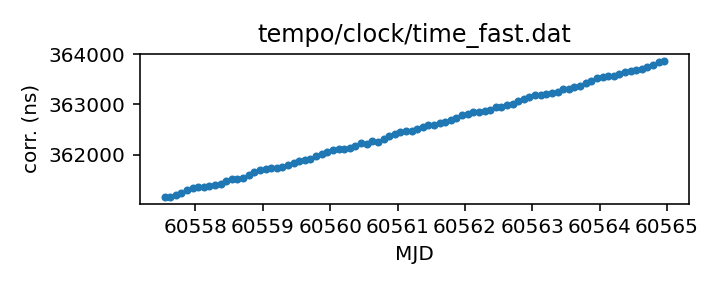
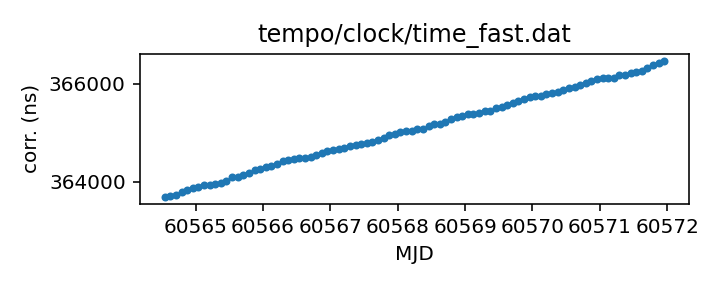
Routine gh-pages update from Github action Fri Sep 20 20:33:59 UTC 2024

diff --git a/status.md b/status.md
@@ -13,18 +13,18 @@ name of each clock file links to a page with more details.
 
 | Name | File | Corrections start | Corrections end | Last check date | Last check result 
 |:--- |:--- | --- | --- | --- |:--- 
-| [GPS to UTC](T2runtime/clock/gps2utc.clk.html) | `T2runtime/clock/gps2utc.clk` | 1993-01-01 MJD 48988.0 | 2024-04-29 MJD 60429.0 | 2024-09-19 | Unchanged 
-| [GPS to UTC (Combined Clock)](T2runtime/clock/gps2utc_cc.clk.html) | `T2runtime/clock/gps2utc_cc.clk` | 1993-01-01 MJD 48988.0 | 2024-04-29 MJD 60429.0 | 2024-09-19 | Unchanged 
-| [GPS to UTC (Corrected)](T2runtime/clock/gps2utc_c0p.clk.html) | `T2runtime/clock/gps2utc_c0p.clk` | 2010-12-29 MJD 55559.0 | 2024-04-29 MJD 60429.0 | 2024-09-19 | Unchanged 
-| [GBT](tempo/clock/time_gbt.dat.html) | `tempo/clock/time_gbt.dat` | 2000-12-31 MJD 51909.5 | 2024-05-18 MJD 60448.5 | 2024-09-19 | **Validation failed** 
+| [GPS to UTC](T2runtime/clock/gps2utc.clk.html) | `T2runtime/clock/gps2utc.clk` | 1993-01-01 MJD 48988.0 | 2024-04-29 MJD 60429.0 | 2024-09-20 | Unchanged 
+| [GPS to UTC (Combined Clock)](T2runtime/clock/gps2utc_cc.clk.html) | `T2runtime/clock/gps2utc_cc.clk` | 1993-01-01 MJD 48988.0 | 2024-04-29 MJD 60429.0 | 2024-09-20 | Unchanged 
+| [GPS to UTC (Corrected)](T2runtime/clock/gps2utc_c0p.clk.html) | `T2runtime/clock/gps2utc_c0p.clk` | 2010-12-29 MJD 55559.0 | 2024-04-29 MJD 60429.0 | 2024-09-20 | Unchanged 
+| [GBT](tempo/clock/time_gbt.dat.html) | `tempo/clock/time_gbt.dat` | 2000-12-31 MJD 51909.5 | 2024-05-18 MJD 60448.5 | 2024-09-20 | **Validation failed** 
 | [GBT (TEMPO2 converted from TEMPO)](T2runtime/clock/gbt2gps.clk.html) | `T2runtime/clock/gbt2gps.clk` | 2000-12-31 MJD 51909.5 | 2024-05-18 MJD 60448.5 | 2024-05-19 | Updated 
-| [Jodrell Bank](T2runtime/clock/jb2gps.clk.html) | `T2runtime/clock/jb2gps.clk` | 2006-10-13 MJD 54021.4 | 2023-12-04 MJD 60282.0 | 2024-09-13 | Unchanged 
-| [Jodrell Bank Roach](T2runtime/clock/jbroach2jb.clk.html) | `T2runtime/clock/jbroach2jb.clk` | 2006-10-13 MJD 54021.4 | 2018-03-20 MJD 58197.6 | 2024-09-13 | Unchanged 
-| [Jodrell Bank DFB](T2runtime/clock/jbdfb2jb.clk.html) | `T2runtime/clock/jbdfb2jb.clk` | 2006-10-13 MJD 54021.4 | 2017-05-11 MJD 57884.0 | 2024-09-13 | Unchanged 
-| [Meerkat (observatory)](T2runtime/clock/mk2utc_observatory.clk.html) | `T2runtime/clock/mk2utc_observatory.clk` | 2019-01-01 MJD 58484.0 | 2024-04-24 MJD 60425.0 | 2024-09-13 | **Failed to download** 
-| [Leap seconds](tempo/clock/leap.sec.html) | `tempo/clock/leap.sec` | 1972-07-01 MJD 41499.0 | 2017-01-01 MJD 57754.0 | 2024-09-19 | Unchanged 
-| [UT1 table](tempo/clock/ut1.dat.html) | `tempo/clock/ut1.dat` | 1973-01-02 MJD 41684.0 | 2025-09-27 MJD 60945.0 | 2024-09-19 | Updated 
-| [UT1 table](T2runtime/clock/ut1.dat.html) | `T2runtime/clock/ut1.dat` | 1973-01-02 MJD 41684.0 | 2025-09-27 MJD 60945.0 | 2024-09-19 | Updated 
+| [Jodrell Bank](T2runtime/clock/jb2gps.clk.html) | `T2runtime/clock/jb2gps.clk` | 2006-10-13 MJD 54021.4 | 2023-12-04 MJD 60282.0 | 2024-09-20 | Unchanged 
+| [Jodrell Bank Roach](T2runtime/clock/jbroach2jb.clk.html) | `T2runtime/clock/jbroach2jb.clk` | 2006-10-13 MJD 54021.4 | 2018-03-20 MJD 58197.6 | 2024-09-20 | Unchanged 
+| [Jodrell Bank DFB](T2runtime/clock/jbdfb2jb.clk.html) | `T2runtime/clock/jbdfb2jb.clk` | 2006-10-13 MJD 54021.4 | 2017-05-11 MJD 57884.0 | 2024-09-20 | Unchanged 
+| [Meerkat (observatory)](T2runtime/clock/mk2utc_observatory.clk.html) | `T2runtime/clock/mk2utc_observatory.clk` | 2019-01-01 MJD 58484.0 | 2024-04-24 MJD 60425.0 | 2024-09-20 | **Validation failed** 
+| [Leap seconds](tempo/clock/leap.sec.html) | `tempo/clock/leap.sec` | 1972-07-01 MJD 41499.0 | 2017-01-01 MJD 57754.0 | 2024-09-20 | Unchanged 
+| [UT1 table](tempo/clock/ut1.dat.html) | `tempo/clock/ut1.dat` | 1973-01-02 MJD 41684.0 | 2025-09-27 MJD 60945.0 | 2024-09-20 | Unchanged 
+| [UT1 table](T2runtime/clock/ut1.dat.html) | `T2runtime/clock/ut1.dat` | 1973-01-02 MJD 41684.0 | 2025-09-27 MJD 60945.0 | 2024-09-20 | Unchanged 
 
 
 
@@ -67,26 +67,26 @@ name of each clock file links to a page with more details.
 
 | Name | File | Corrections start | Corrections end | Last check date | Last check result 
 |:--- |:--- | --- | --- | --- |:--- 
-| [GPS to UTC (TEMPO2)](T2runtime/clock/gps2utc_tempo2.clk.html) | `T2runtime/clock/gps2utc_tempo2.clk` | 1996-03-27 MJD 50169.0 | 2022-10-27 MJD 59879.0 | 2024-09-13 | **Failed to download** 
-| [GBT (TEMPO2)](T2runtime/clock/gbt2gps_tempo2.clk.html) | `T2runtime/clock/gbt2gps_tempo2.clk` | 2000-12-31 MJD 51909.5 | 2020-02-25 MJD 58904.5 | 2024-09-13 | Unchanged 
-| [Jodrell Bank (TEMPO)](tempo/clock/time_jb.dat.html) | `tempo/clock/time_jb.dat` | 2006-10-13 MJD 54021.4 | 2019-05-13 MJD 58616.2 | 2024-09-13 | Unchanged 
-| [VLA](tempo/clock/time_vla.dat.html) | `tempo/clock/time_vla.dat` | 1990-10-27 MJD 48191.2 | 2021-03-07 MJD 59280.5 | 2024-09-13 | Unchanged 
-| [VLA (TEMPO2)](T2runtime/clock/vla2gps.clk.html) | `T2runtime/clock/vla2gps.clk` | 2015-02-01 MJD 57054.6 | 2021-03-07 MJD 59280.5 | 2024-09-13 | Unchanged 
-| [VLA to NIST](T2runtime/clock/vla2nist.clk.html) | `T2runtime/clock/vla2nist.clk` | 1990-10-27 MJD 48191.2 | 1993-11-13 MJD 49304.0 | 2024-09-13 | Unchanged 
-| [FAST](tempo/clock/time_fast.dat.html) | `tempo/clock/time_fast.dat` | 2017-07-27 MJD 57961.0 | 2024-09-11 MJD 60565.0 | 2024-09-13 | Updated 
-| [WSRT](T2runtime/clock/wsrt2gps.clk.html) | `T2runtime/clock/wsrt2gps.clk` | 1999-01-01 MJD 51179.5 | 2015-06-29 MJD 57202.1 | 2024-09-13 | Unchanged 
-| [WSRT (TEMPO)](tempo/clock/time_wsrt.dat.html) | `tempo/clock/time_wsrt.dat` | 1987-07-24 MJD 47000.0 | 2007-12-24 MJD 54458.0 | 2024-09-13 | **Validation failed** 
-| [Parkes](T2runtime/clock/pks2gps.clk.html) | `T2runtime/clock/pks2gps.clk` | 1858-11-17 MJD 0.0 | 2024-08-31 MJD 60553.1 | 2024-09-13 | Updated 
-| [Parkes (TEMPO)](tempo/clock/time_pks.dat.html) | `tempo/clock/time_pks.dat` | 1979-05-07 MJD 44000.0 | 2011-07-03 MJD 55745.8 | 2024-09-13 | **Validation failed** 
-| [SRT](T2runtime/clock/srt2gps.clk.html) | `T2runtime/clock/srt2gps.clk` | 2013-03-20 MJD 56371.0 | 2019-12-11 MJD 58828.0 | 2024-09-13 | Unchanged 
-| [Effelsberg](T2runtime/clock/eff2gps.clk.html) | `T2runtime/clock/eff2gps.clk` | 1993-11-29 MJD 49320.0 | 2015-06-22 MJD 57195.5 | 2024-09-13 | Unchanged 
-| [Effelsberg Asterix/PSRix](T2runtime/clock/effix2gps.clk.html) | `T2runtime/clock/effix2gps.clk` | 2011-01-01 MJD 55562.5 | 2021-03-21 MJD 59294.5 | 2024-09-13 | Unchanged 
-| [LEAP](T2runtime/clock/leap2effix.clk.html) | `T2runtime/clock/leap2effix.clk` | 2012-10-29 MJD 56230.0 | 2014-03-04 MJD 56720.0 | 2024-09-13 | Unchanged 
-| [NUPPI](tempo/clock/time_nuppi.dat.html) | `tempo/clock/time_nuppi.dat` | 2005-03-07 MJD 53436.0 | 2015-11-08 MJD 57334.6 | 2024-09-13 | Unchanged 
-| [Meerkat (TEMPO2)](T2runtime/clock/mk2utc.clk.html) | `T2runtime/clock/mk2utc.clk` | 2019-01-01 MJD 58484.0 | 2023-10-18 MJD 60235.9 | 2024-09-13 | Unchanged 
-| [MOST](T2runtime/clock/mo2gps.clk.html) | `T2runtime/clock/mo2gps.clk` | 2003-12-27 MJD 53000.0 | 2018-09-06 MJD 58367.0 | 2024-09-13 | Unchanged 
-| [Nancay to obspm](T2runtime/clock/ncyobs2obspm.clk.html) | `T2runtime/clock/ncyobs2obspm.clk` | 1988-05-18 MJD 47299.6 | 2023-10-27 MJD 60244.0 | 2024-09-13 | Unchanged 
-| [obspm](T2runtime/clock/obspm2gps.clk.html) | `T2runtime/clock/obspm2gps.clk` | 2003-12-01 MJD 52974.0 | 2023-10-27 MJD 60244.0 | 2024-09-13 | Unchanged 
+| [GPS to UTC (TEMPO2)](T2runtime/clock/gps2utc_tempo2.clk.html) | `T2runtime/clock/gps2utc_tempo2.clk` | 1996-03-27 MJD 50169.0 | 2022-10-27 MJD 59879.0 | 2024-09-20 | **Failed to download** 
+| [GBT (TEMPO2)](T2runtime/clock/gbt2gps_tempo2.clk.html) | `T2runtime/clock/gbt2gps_tempo2.clk` | 2000-12-31 MJD 51909.5 | 2020-02-25 MJD 58904.5 | 2024-09-20 | Unchanged 
+| [Jodrell Bank (TEMPO)](tempo/clock/time_jb.dat.html) | `tempo/clock/time_jb.dat` | 2006-10-13 MJD 54021.4 | 2019-05-13 MJD 58616.2 | 2024-09-20 | Unchanged 
+| [VLA](tempo/clock/time_vla.dat.html) | `tempo/clock/time_vla.dat` | 1990-10-27 MJD 48191.2 | 2021-03-07 MJD 59280.5 | 2024-09-20 | Unchanged 
+| [VLA (TEMPO2)](T2runtime/clock/vla2gps.clk.html) | `T2runtime/clock/vla2gps.clk` | 2015-02-01 MJD 57054.6 | 2021-03-07 MJD 59280.5 | 2024-09-20 | Unchanged 
+| [VLA to NIST](T2runtime/clock/vla2nist.clk.html) | `T2runtime/clock/vla2nist.clk` | 1990-10-27 MJD 48191.2 | 1993-11-13 MJD 49304.0 | 2024-09-20 | Unchanged 
+| [FAST](tempo/clock/time_fast.dat.html) | `tempo/clock/time_fast.dat` | 2017-07-27 MJD 57961.0 | 2024-09-18 MJD 60572.0 | 2024-09-20 | Updated 
+| [WSRT](T2runtime/clock/wsrt2gps.clk.html) | `T2runtime/clock/wsrt2gps.clk` | 1999-01-01 MJD 51179.5 | 2015-06-29 MJD 57202.1 | 2024-09-20 | Unchanged 
+| [WSRT (TEMPO)](tempo/clock/time_wsrt.dat.html) | `tempo/clock/time_wsrt.dat` | 1987-07-24 MJD 47000.0 | 2007-12-24 MJD 54458.0 | 2024-09-20 | **Validation failed** 
+| [Parkes](T2runtime/clock/pks2gps.clk.html) | `T2runtime/clock/pks2gps.clk` | 1858-11-17 MJD 0.0 | 2024-08-31 MJD 60553.1 | 2024-09-20 | Unchanged 
+| [Parkes (TEMPO)](tempo/clock/time_pks.dat.html) | `tempo/clock/time_pks.dat` | 1979-05-07 MJD 44000.0 | 2011-07-03 MJD 55745.8 | 2024-09-20 | **Validation failed** 
+| [SRT](T2runtime/clock/srt2gps.clk.html) | `T2runtime/clock/srt2gps.clk` | 2013-03-20 MJD 56371.0 | 2019-12-11 MJD 58828.0 | 2024-09-20 | Unchanged 
+| [Effelsberg](T2runtime/clock/eff2gps.clk.html) | `T2runtime/clock/eff2gps.clk` | 1993-11-29 MJD 49320.0 | 2015-06-22 MJD 57195.5 | 2024-09-20 | Unchanged 
+| [Effelsberg Asterix/PSRix](T2runtime/clock/effix2gps.clk.html) | `T2runtime/clock/effix2gps.clk` | 2011-01-01 MJD 55562.5 | 2021-03-21 MJD 59294.5 | 2024-09-20 | Unchanged 
+| [LEAP](T2runtime/clock/leap2effix.clk.html) | `T2runtime/clock/leap2effix.clk` | 2012-10-29 MJD 56230.0 | 2014-03-04 MJD 56720.0 | 2024-09-20 | Unchanged 
+| [NUPPI](tempo/clock/time_nuppi.dat.html) | `tempo/clock/time_nuppi.dat` | 2005-03-07 MJD 53436.0 | 2015-11-08 MJD 57334.6 | 2024-09-20 | Unchanged 
+| [Meerkat (TEMPO2)](T2runtime/clock/mk2utc.clk.html) | `T2runtime/clock/mk2utc.clk` | 2019-01-01 MJD 58484.0 | 2023-10-18 MJD 60235.9 | 2024-09-20 | Unchanged 
+| [MOST](T2runtime/clock/mo2gps.clk.html) | `T2runtime/clock/mo2gps.clk` | 2003-12-27 MJD 53000.0 | 2018-09-06 MJD 58367.0 | 2024-09-20 | Unchanged 
+| [Nancay to obspm](T2runtime/clock/ncyobs2obspm.clk.html) | `T2runtime/clock/ncyobs2obspm.clk` | 1988-05-18 MJD 47299.6 | 2023-10-27 MJD 60244.0 | 2024-09-20 | Unchanged 
+| [obspm](T2runtime/clock/obspm2gps.clk.html) | `T2runtime/clock/obspm2gps.clk` | 2003-12-01 MJD 52974.0 | 2023-10-27 MJD 60244.0 | 2024-09-20 | Unchanged 
 
 
 ### Further information:

diff --git a/tempo/clock/time_pks.dat.md b/tempo/clock/time_pks.dat.md
@@ -20,12 +20,11 @@ telescopes in the same file, distinguished only by observatory code.
 | Clock file start | 1979-05-07 MJD 44000.0 |
 | Clock file end | 2011-07-03 MJD 55745.8 |
 | Update interval (days) | 7 |
-| Last update attempt | 2024-09-13 |
+| Last update attempt | 2024-09-20 |
 | Last update result | Validation failed |
 
 Log entries from the last few update attempts:
 ```
-2024-07-12 20:29:38.960 - Validation failed: Unable to read new version of tempo/clock/time_pks.dat: Clock file /tmp/astropy-download-1798-05ao87af appears to be out of order: 49959.0 > 49958.0
 2024-07-19 20:31:11.515 - Validation failed: Unable to read new version of tempo/clock/time_pks.dat: Clock file /tmp/astropy-download-1879-v7corvfs appears to be out of order: 49959.0 > 49958.0
 2024-07-26 20:31:11.561 - Validation failed: Unable to read new version of tempo/clock/time_pks.dat: Clock file /tmp/astropy-download-1771-ynhf0azv appears to be out of order: 49959.0 > 49958.0
 2024-08-02 20:31:15.123 - Validation failed: Unable to read new version of tempo/clock/time_pks.dat: Clock file /tmp/astropy-download-1884-prw9g2tg appears to be out of order: 49959.0 > 49958.0
@@ -35,6 +34,7 @@ Log entries from the last few update attempts:
 2024-08-30 20:32:33.550 - Validation failed: Unable to read new version of tempo/clock/time_pks.dat: Clock file /tmp/astropy-download-1806-7nmpd07j appears to be out of order: 49959.0 > 49958.0
 2024-09-06 20:31:32.232 - Validation failed: Unable to read new version of tempo/clock/time_pks.dat: Clock file /tmp/astropy-download-1810-y5xp7me4 appears to be out of order: 49959.0 > 49958.0
 2024-09-13 20:32:08.063 - Validation failed: Unable to read new version of tempo/clock/time_pks.dat: Clock file /tmp/astropy-download-1899-ep23bl8p appears to be out of order: 49959.0 > 49958.0
+2024-09-20 20:33:31.784 - Validation failed: Unable to read new version of tempo/clock/time_pks.dat: Clock file /tmp/astropy-download-1893-m35dbe__ appears to be out of order: 49959.0 > 49958.0
 ```
 [Full log](https://raw.githubusercontent.com/ipta/pulsar-clock-corrections/main/log/tempo/clock/time_pks.dat.log)
 

diff --git a/tempo/clock/time_wsrt.dat.md b/tempo/clock/time_wsrt.dat.md
@@ -20,12 +20,11 @@ should be the same information.
 | Clock file start | 1987-07-24 MJD 47000.0 |
 | Clock file end | 2007-12-24 MJD 54458.0 |
 | Update interval (days) | 7 |
-| Last update attempt | 2024-09-13 |
+| Last update attempt | 2024-09-20 |
 | Last update result | Validation failed |
 
 Log entries from the last few update attempts:
 ```
-2024-07-12 20:29:34.055 - Validation failed: Unable to read new version of tempo/clock/time_wsrt.dat: Clock file /tmp/astropy-download-1798-yen7urfq appears to be out of order: 53000.05 > 53000.0
 2024-07-19 20:31:07.763 - Validation failed: Unable to read new version of tempo/clock/time_wsrt.dat: Clock file /tmp/astropy-download-1879-ofamkhs8 appears to be out of order: 53000.05 > 53000.0
 2024-07-26 20:31:07.591 - Validation failed: Unable to read new version of tempo/clock/time_wsrt.dat: Clock file /tmp/astropy-download-1771-gsrg9qrm appears to be out of order: 53000.05 > 53000.0
 2024-08-02 20:31:12.075 - Validation failed: Unable to read new version of tempo/clock/time_wsrt.dat: Clock file /tmp/astropy-download-1884-lk6lifwj appears to be out of order: 53000.05 > 53000.0
@@ -35,6 +34,7 @@ Log entries from the last few update attempts:
 2024-08-30 20:32:28.816 - Validation failed: Unable to read new version of tempo/clock/time_wsrt.dat: Clock file /tmp/astropy-download-1806-v9_cze2w appears to be out of order: 53000.05 > 53000.0
 2024-09-06 20:31:25.517 - Validation failed: Unable to read new version of tempo/clock/time_wsrt.dat: Clock file /tmp/astropy-download-1810-r1trxeay appears to be out of order: 53000.05 > 53000.0
 2024-09-13 20:32:03.201 - Validation failed: Unable to read new version of tempo/clock/time_wsrt.dat: Clock file /tmp/astropy-download-1899-5cycg5di appears to be out of order: 53000.05 > 53000.0
+2024-09-20 20:33:26.812 - Validation failed: Unable to read new version of tempo/clock/time_wsrt.dat: Clock file /tmp/astropy-download-1893-omoncdps appears to be out of order: 53000.05 > 53000.0
 ```
 [Full log](https://raw.githubusercontent.com/ipta/pulsar-clock-corrections/main/log/tempo/clock/time_wsrt.dat.log)
 

diff --git a/tempo/clock/time_gbt.dat.md b/tempo/clock/time_gbt.dat.md
@@ -33,12 +33,11 @@ If questions arise, contact Ryan S. Lynch <rlynch@nrao.edu>.
 | Clock file start | 2000-12-31 MJD 51909.5 |
 | Clock file end | 2024-05-18 MJD 60448.5 |
 | Update interval (days) | 1 |
-| Last update attempt | 2024-09-19 |
+| Last update attempt | 2024-09-20 |
 | Last update result | Validation failed |
 
 Log entries from the last few update attempts:
 ```
-2024-09-10 20:32:04.127 - Validation failed: New version of tempo/clock/time_gbt.dat clock corrections differ from old version where they overlap in 11 places
 2024-09-11 20:31:12.847 - Validation failed: New version of tempo/clock/time_gbt.dat clock corrections differ from old version where they overlap in 11 places
 2024-09-12 20:31:59.941 - Validation failed: New version of tempo/clock/time_gbt.dat clock corrections differ from old version where they overlap in 11 places
 2024-09-13 20:31:59.762 - Validation failed: New version of tempo/clock/time_gbt.dat clock corrections differ from old version where they overlap in 11 places
@@ -48,6 +47,7 @@ Log entries from the last few update attempts:
 2024-09-17 20:32:52.012 - Validation failed: New version of tempo/clock/time_gbt.dat clock corrections differ from old version where they overlap in 11 places
 2024-09-18 20:32:45.028 - Validation failed: New version of tempo/clock/time_gbt.dat clock corrections differ from old version where they overlap in 11 places
 2024-09-19 20:32:12.008 - Validation failed: New version of tempo/clock/time_gbt.dat clock corrections differ from old version where they overlap in 11 places
+2024-09-20 20:33:21.091 - Validation failed: New version of tempo/clock/time_gbt.dat clock corrections differ from old version where they overlap in 11 places
 ```
 [Full log](https://raw.githubusercontent.com/ipta/pulsar-clock-corrections/main/log/tempo/clock/time_gbt.dat.log)
 

diff --git a/T2runtime/clock/mk2utc_observatory.clk.md b/T2runtime/clock/mk2utc_observatory.clk.md
@@ -21,12 +21,11 @@ If questions arise, contact Ryan Shannon <rshannon@swin.edu.au>
 | Clock file start | 2019-01-01 MJD 58484.0 |
 | Clock file end | 2024-04-24 MJD 60425.0 |
 | Update interval (days) | 7 |
-| Last update attempt | 2024-09-13 |
-| Last update result | Failed to download |
+| Last update attempt | 2024-09-20 |
+| Last update result | Validation failed |
 
 Log entries from the last few update attempts:
 ```
-2024-07-12 20:29:44.446 - Unchanged
 2024-07-19 20:31:14.053 - Failed to download: HTTP Error 403: Forbidden
 2024-07-26 20:31:14.162 - Failed to download: HTTP Error 403: Forbidden
 2024-08-02 20:31:19.452 - Failed to download: HTTP Error 403: Forbidden
@@ -36,6 +35,7 @@ Log entries from the last few update attempts:
 2024-08-30 20:32:35.880 - Failed to download: HTTP Error 403: Forbidden
 2024-09-06 20:31:43.821 - Failed to download: The read operation timed out
 2024-09-13 20:32:10.289 - Failed to download: HTTP Error 403: Forbidden
+2024-09-20 20:33:35.218 - Validation failed: Unable to read new version of T2runtime/clock/mk2utc_observatory.clk: Header line must start with # and contain two time scales: 'The SARAO archive is currently down. We apologise for the inconvenience. We will remove this alert once the archive is available again.\n'
 ```
 [Full log](https://raw.githubusercontent.com/ipta/pulsar-clock-corrections/main/log/T2runtime/clock/mk2utc_observatory.clk.log)
 

diff --git a/T2runtime/clock/gps2utc_tempo2.clk.md b/T2runtime/clock/gps2utc_tempo2.clk.md
@@ -27,12 +27,11 @@ are from the column C0').
 | Clock file start | 1996-03-27 MJD 50169.0 |
 | Clock file end | 2022-10-27 MJD 59879.0 |
 | Update interval (days) | 7 |
-| Last update attempt | 2024-09-13 |
+| Last update attempt | 2024-09-20 |
 | Last update result | Failed to download |
 
 Log entries from the last few update attempts:
 ```
-2024-07-12 20:29:07.006 - Failed to download: HTTP Error 404: Not Found
 2024-07-19 20:30:26.761 - Failed to download: HTTP Error 404: Not Found
 2024-07-26 20:30:27.098 - Failed to download: HTTP Error 404: Not Found
 2024-08-02 20:30:33.662 - Failed to download: HTTP Error 404: Not Found
@@ -42,6 +41,7 @@ Log entries from the last few update attempts:
 2024-08-30 20:32:01.718 - Failed to download: HTTP Error 404: Not Found
 2024-09-06 20:30:57.247 - Failed to download: HTTP Error 404: Not Found
 2024-09-13 20:31:35.404 - Failed to download: HTTP Error 404: Not Found
+2024-09-20 20:32:57.970 - Failed to download: HTTP Error 404: Not Found
 ```
 [Full log](https://raw.githubusercontent.com/ipta/pulsar-clock-corrections/main/log/T2runtime/clock/gps2utc_tempo2.clk.log)
 

diff --git a/tempo/clock/time_fast.dat.md b/tempo/clock/time_fast.dat.md
@@ -14,14 +14,13 @@ This file is pulled from the FAST_ClockFile repository.
 | Format | tempo |
 | Bogus last correction | False |
 | Clock file start | 2017-07-27 MJD 57961.0 |
-| Clock file end | 2024-09-11 MJD 60565.0 |
+| Clock file end | 2024-09-18 MJD 60572.0 |
 | Update interval (days) | 7 |
-| Last update attempt | 2024-09-13 |
+| Last update attempt | 2024-09-20 |
 | Last update result | Updated |
 
 Log entries from the last few update attempts:
 ```
-2024-07-12 20:29:33.643 - Updated
 2024-07-19 20:31:06.912 - Updated
 2024-07-26 20:31:07.124 - Updated
 2024-08-02 20:31:11.541 - Updated
@@ -31,6 +30,7 @@ Log entries from the last few update attempts:
 2024-08-30 20:32:28.415 - Updated
 2024-09-06 20:31:25.133 - Updated
 2024-09-13 20:32:02.724 - Updated
+2024-09-20 20:33:23.772 - Updated
 ```
 [Full log](https://raw.githubusercontent.com/ipta/pulsar-clock-corrections/main/log/tempo/clock/time_fast.dat.log)
 

diff --git a/T2runtime/clock/gps2utc_c0p.clk.md b/T2runtime/clock/gps2utc_c0p.clk.md
@@ -30,12 +30,11 @@ about the BIPM's published corrections, contact <tai@bipm.org>.
 | Clock file start | 2010-12-29 MJD 55559.0 |
 | Clock file end | 2024-04-29 MJD 60429.0 |
 | Update interval (days) | 1 |
-| Last update attempt | 2024-09-19 |
+| Last update attempt | 2024-09-20 |
 | Last update result | Unchanged |
 
 Log entries from the last few update attempts:
 ```
-2024-09-10 20:32:03.840 - Unchanged
 2024-09-11 20:31:12.161 - Unchanged
 2024-09-12 20:31:59.305 - Unchanged
 2024-09-13 20:31:59.508 - Unchanged
@@ -45,6 +44,7 @@ Log entries from the last few update attempts:
 2024-09-17 20:32:51.550 - Unchanged
 2024-09-18 20:32:44.210 - Unchanged
 2024-09-19 20:32:11.654 - Unchanged
+2024-09-20 20:33:20.756 - Unchanged
 ```
 [Full log](https://raw.githubusercontent.com/ipta/pulsar-clock-corrections/main/log/T2runtime/clock/gps2utc_c0p.clk.log)
 

diff --git a/T2runtime/clock/gps2utc_cc.clk.md b/T2runtime/clock/gps2utc_cc.clk.md
@@ -29,12 +29,11 @@ about the BIPM's published corrections, contact <tai@bipm.org>.
 | Clock file start | 1993-01-01 MJD 48988.0 |
 | Clock file end | 2024-04-29 MJD 60429.0 |
 | Update interval (days) | 1 |
-| Last update attempt | 2024-09-19 |
+| Last update attempt | 2024-09-20 |
 | Last update result | Unchanged |
 
 Log entries from the last few update attempts:
 ```
-2024-09-10 20:32:03.829 - Unchanged
 2024-09-11 20:31:12.147 - Unchanged
 2024-09-12 20:31:59.293 - Unchanged
 2024-09-13 20:31:59.496 - Unchanged
@@ -44,6 +43,7 @@ Log entries from the last few update attempts:
 2024-09-17 20:32:51.538 - Unchanged
 2024-09-18 20:32:44.199 - Unchanged
 2024-09-19 20:32:11.642 - Unchanged
+2024-09-20 20:33:20.744 - Unchanged
 ```
 [Full log](https://raw.githubusercontent.com/ipta/pulsar-clock-corrections/main/log/T2runtime/clock/gps2utc_cc.clk.log)
 

diff --git a/T2runtime/clock/gps2utc.clk.md b/T2runtime/clock/gps2utc.clk.md
@@ -32,12 +32,11 @@ about the BIPM's published corrections, contact <tai@bipm.org>.
 | Clock file start | 1993-01-01 MJD 48988.0 |
 | Clock file end | 2024-04-29 MJD 60429.0 |
 | Update interval (days) | 1 |
-| Last update attempt | 2024-09-19 |
+| Last update attempt | 2024-09-20 |
 | Last update result | Unchanged |
 
 Log entries from the last few update attempts:
 ```
-2024-09-10 20:32:03.801 - Unchanged
 2024-09-11 20:31:12.118 - Unchanged
 2024-09-12 20:31:59.265 - Unchanged
 2024-09-13 20:31:59.468 - Unchanged
@@ -47,6 +46,7 @@ Log entries from the last few update attempts:
 2024-09-17 20:32:51.510 - Unchanged
 2024-09-18 20:32:44.170 - Unchanged
 2024-09-19 20:32:11.614 - Unchanged
+2024-09-20 20:33:20.716 - Unchanged
 ```
 [Full log](https://raw.githubusercontent.com/ipta/pulsar-clock-corrections/main/log/T2runtime/clock/gps2utc.clk.log)
 

diff --git a/T2runtime/clock/ut1.dat.md b/T2runtime/clock/ut1.dat.md
@@ -30,12 +30,11 @@ If there are any questions, contact Anne Archibald
 | File start | 1973-01-02 MJD 41684.0 |
 | File end | 2025-09-27 MJD 60945.0 |
 | Update interval (days) | 0 |
-| Last update attempt | 2024-09-19 |
-| Last update result | Updated |
+| Last update attempt | 2024-09-20 |
+| Last update result | Unchanged |
 
 Log entries from the last few update attempts:
 ```
-2024-09-10 20:32:12.730 - Unchanged
 2024-09-11 20:31:20.447 - Unchanged
 2024-09-12 20:32:08.775 - Updated
 2024-09-13 20:32:19.603 - Unchanged
@@ -45,5 +44,6 @@ Log entries from the last few update attempts:
 2024-09-17 20:33:01.285 - Unchanged
 2024-09-18 20:32:57.685 - Unchanged
 2024-09-19 20:32:19.947 - Updated
+2024-09-20 20:33:44.896 - Unchanged
 ```
 [Full log](https://raw.githubusercontent.com/ipta/pulsar-clock-corrections/main/log/T2runtime/clock/ut1.dat.log)

diff --git a/T2runtime/clock/ncyobs2obspm.clk.md b/T2runtime/clock/ncyobs2obspm.clk.md
@@ -22,12 +22,11 @@ thus here) can be expected to be somewhat up to date.
 | Clock file start | 1988-05-18 MJD 47299.6 |
 | Clock file end | 2023-10-27 MJD 60244.0 |
 | Update interval (days) | 7 |
-| Last update attempt | 2024-09-13 |
+| Last update attempt | 2024-09-20 |
 | Last update result | Unchanged |
 
 Log entries from the last few update attempts:
 ```
-2024-07-12 20:29:45.234 - Unchanged
 2024-07-19 20:31:15.066 - Unchanged
 2024-07-26 20:31:15.223 - Unchanged
 2024-08-02 20:31:21.005 - Unchanged
@@ -37,6 +36,7 @@ Log entries from the last few update attempts:
 2024-08-30 20:32:36.681 - Unchanged
 2024-09-06 20:31:44.610 - Unchanged
 2024-09-13 20:32:11.084 - Unchanged
+2024-09-20 20:33:36.050 - Unchanged
 ```
 [Full log](https://raw.githubusercontent.com/ipta/pulsar-clock-corrections/main/log/T2runtime/clock/ncyobs2obspm.clk.log)
 
